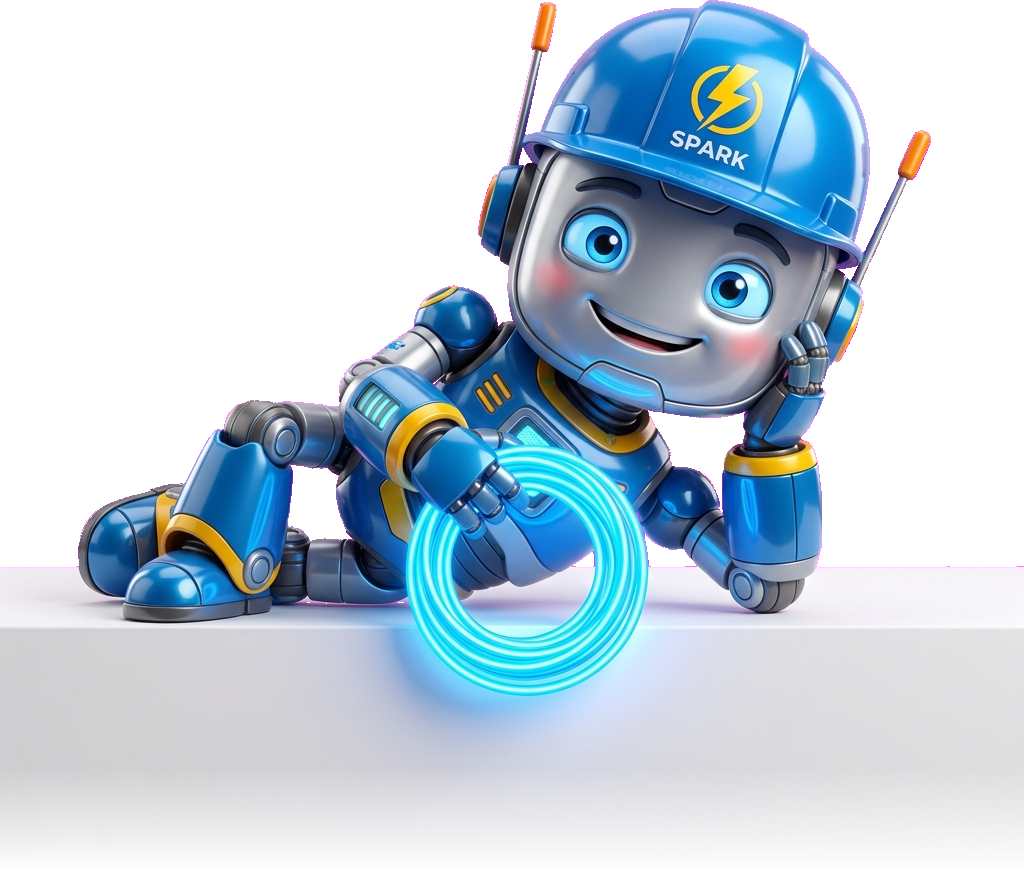
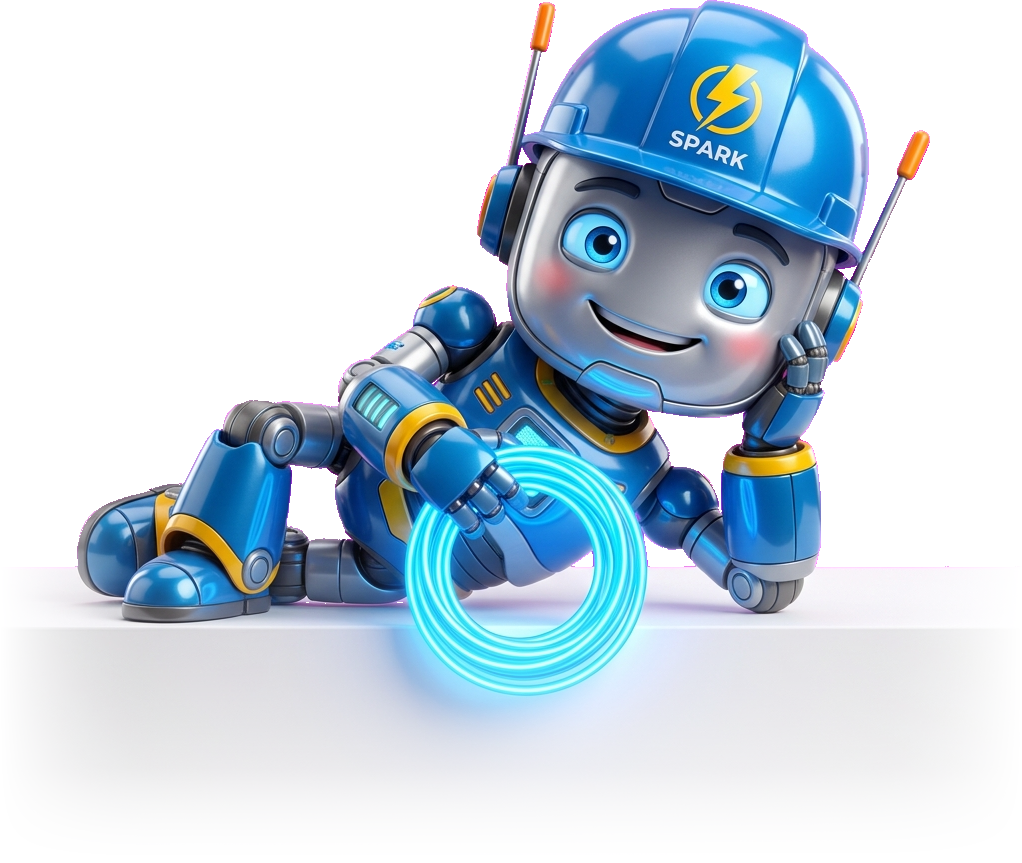
apply_smooth_soft_gradient_alpha_mask_and_align_mascot_elbow_on_modal_border

diff --git a/src/components/catalog/guided-wizard-modal.tsx b/src/components/catalog/guided-wizard-modal.tsx
@@ -240,8 +240,8 @@ export default function GuidedWizardModal() {
         className="relative w-full max-w-4xl bg-surface-white border border-border rounded-2xl shadow-2xl overflow-visible flex flex-col max-h-[85vh] my-0"
         onClick={(e) => e.stopPropagation()}
       >
-        {/* 3D Mascot Character - LYING ON WHITE LEDGE WITH GRADIENT FADE FLUSH ON MODAL EDGE */}
-        <div className="absolute -top-[70px] sm:-top-[92px] right-6 sm:right-10 pointer-events-none hidden sm:block z-50 transition-transform hover:scale-105">
+        {/* 3D Mascot Character - LYING POSE WITH ELBOW RESTING EXACTLY ON MODAL BORDER LINE */}
+        <div className="absolute -top-[84px] sm:-top-[112px] right-6 sm:right-10 pointer-events-none hidden sm:block z-50 transition-transform hover:scale-105">
           <img 
             src="/images/ai-mascot-peeking.png" 
             alt="AI Electrician Mascot" 
